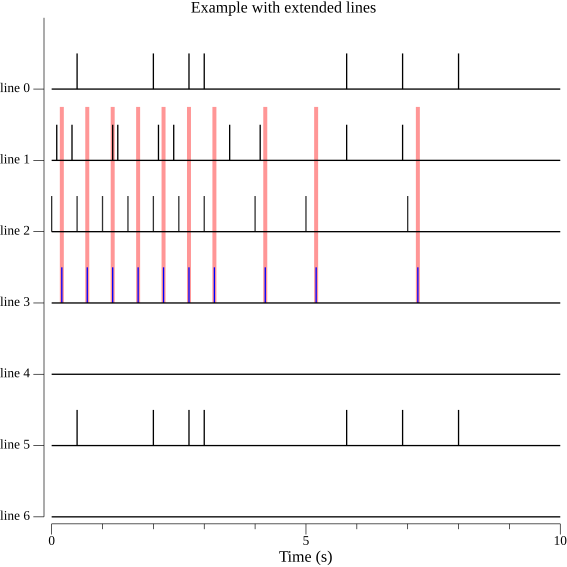
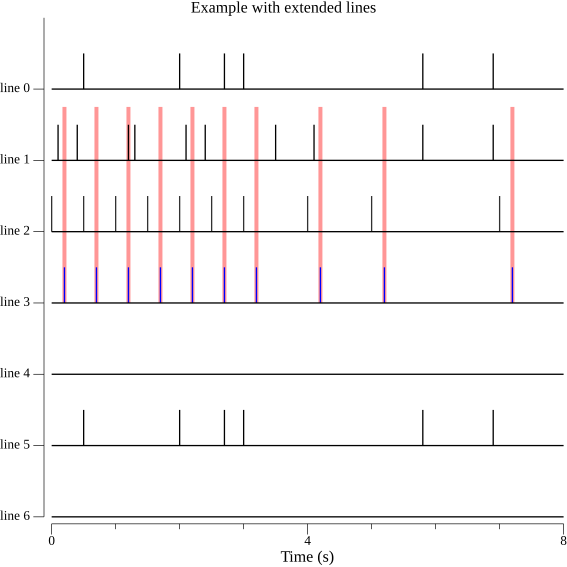
make Xlimit and YLimit optional

diff --git a/spikes.go b/spikes.go
@@ -13,12 +13,11 @@ import (
 
 // SpikeLines is a plot of spikes lines drawn from top to bottom.
 type SpikeLines struct {
-	Title string      // Title
-	Lines []SpikeLine // Spike lines.
-	XMin  float64     // Minimum X value if not 0.
-	XMax  float64     // Maximum X value if not 0.
-	XDim  vg.Length   // X dimension of saved plot, use default if 0.
-	YDim  vg.Length   // Y dimension of saved plot, use default if 0.
+	Title  string      // Title
+	Lines  []SpikeLine // Spike lines.
+	XLimit *Limit      // Spike time range limit.
+	XDim   vg.Length   // X dimension of saved plot, use default if 0.
+	YDim   vg.Length   // Y dimension of saved plot, use default if 0.
 
 }
 
@@ -178,7 +177,7 @@ func MakeSpikePlot(spikeLines SpikeLines, fileNames ...string) error {
 	p := plot.New()
 	p.Title.Text = spikeLines.Title
 	p.X.Label.Text = "Time (s)"
-	if spikeLines.XMax == 0 {
+	if spikeLines.XLimit == nil {
 		xMin, xMax := math.Inf(1), math.Inf(-1)
 		for i := range spikeLines.Lines {
 			for _, v := range spikeLines.Lines[i].Spikes {
@@ -193,8 +192,8 @@ func MakeSpikePlot(spikeLines SpikeLines, fileNames ...string) error {
 		p.X.Min = xMin
 		p.X.Max = xMax
 	} else {
-		p.X.Min = spikeLines.XMin
-		p.X.Max = spikeLines.XMax
+		p.X.Min = spikeLines.XLimit.Min
+		p.X.Max = spikeLines.XLimit.Max
 	}
 	p.Y.Tick.Marker = spikeLines
 	p.Add(spikeLines)

diff --git a/lines.go b/lines.go
@@ -50,11 +50,17 @@ type Line struct {
 	GlyphRadius vg.Length        // Glyph size.
 }
 
+type Limit struct {
+	Min, Max float64 // Axis limit values.
+}
+
 // Lines is a set of lines to be drawn.
 type Lines struct {
 	Title  string    // Line plot title.
 	XLabel string    // X axis label, none if empty.
 	YLabel string    // Y axis label, none if empty.
+	XLimit *Limit    // XLimit values or nil if none.
+	YLimit *Limit    // YLimit values or nil if none.
 	Lines  []Line    // Lines to draw in plot.
 	XDim   vg.Length // X dimension of saved plot, use default if 0.
 	YDim   vg.Length // Y dimension of saved plot, use default if 0.
@@ -66,6 +72,14 @@ func MakeLinePlot(lines Lines, fileNames ...string) error {
 	p.Title.Text = lines.Title
 	p.X.Label.Text = lines.XLabel
 	p.Y.Label.Text = lines.YLabel
+	if lines.XLimit != nil {
+		p.X.Min = lines.XLimit.Min
+		p.X.Max = lines.XLimit.Max
+	}
+	if lines.YLimit != nil {
+		p.Y.Min = lines.YLimit.Min
+		p.Y.Max = lines.YLimit.Max
+	}
 	for i := range lines.Lines {
 		err := Add(p, lines.Lines[i])
 		if err != nil {

diff --git a/spikes_test.go b/spikes_test.go
@@ -173,13 +173,14 @@ func TestManySpikeLines(t *testing.T) {
 		},
 	})
 	spikes.Title = "Poisson distributed spikes"
+	spikes.XDim = 19 * vg.Centimeter
+	spikes.YDim = 12 * vg.Centimeter
 
 	err := MakeSpikePlot(spikes, "tests/poissonSpikePlot.png", "tests/poissonSpikePlot.svg")
 	if err != nil {
 		t.Fatalf("failed saving image: %s", err)
 	}
-	spikes.XMin = 1
-	spikes.XMax = duration / 2
+	spikes.XLimit = &Limit{Min: 1, Max: duration / 2}
 
 	err = MakeSpikePlot(spikes, "tests/poissonSpikeSubPlot.png", "tests/poissonSpikeSubPlot.svg")
 	if err != nil {
